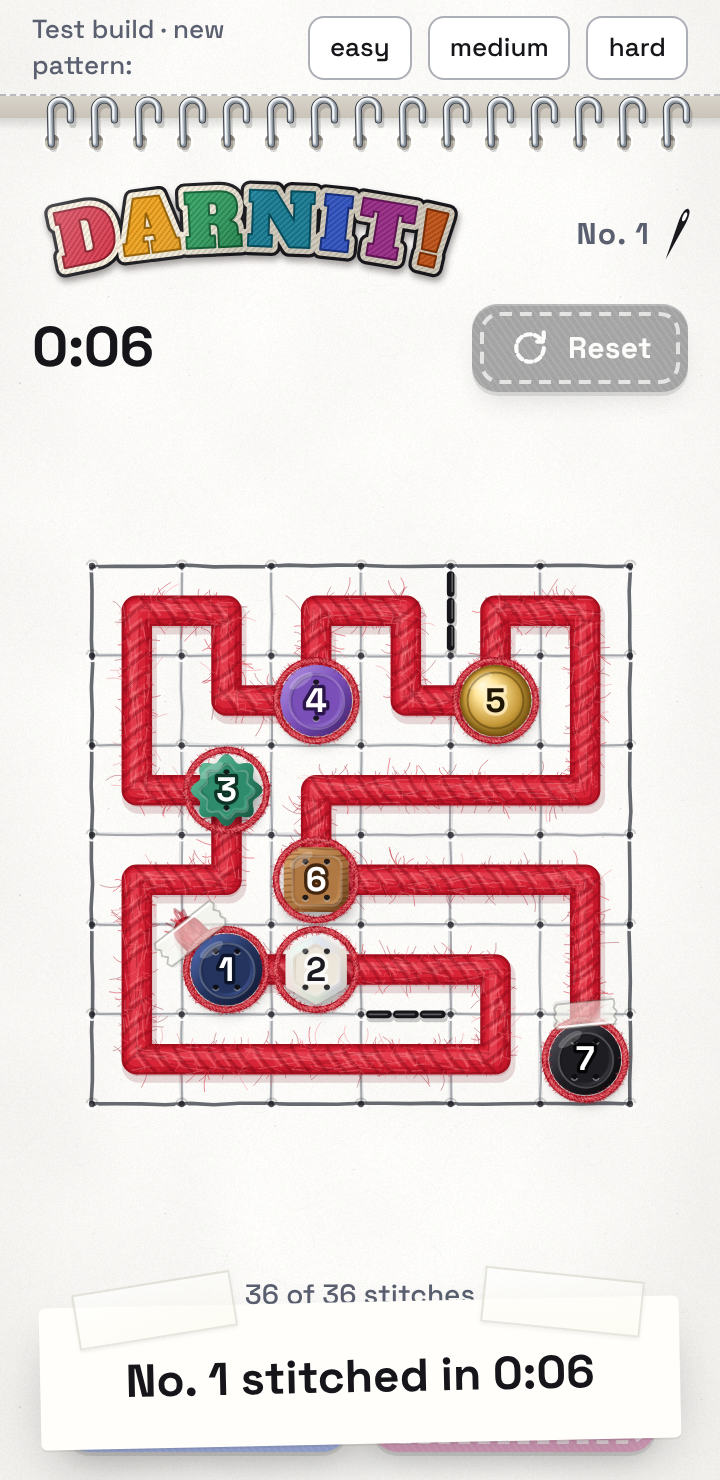
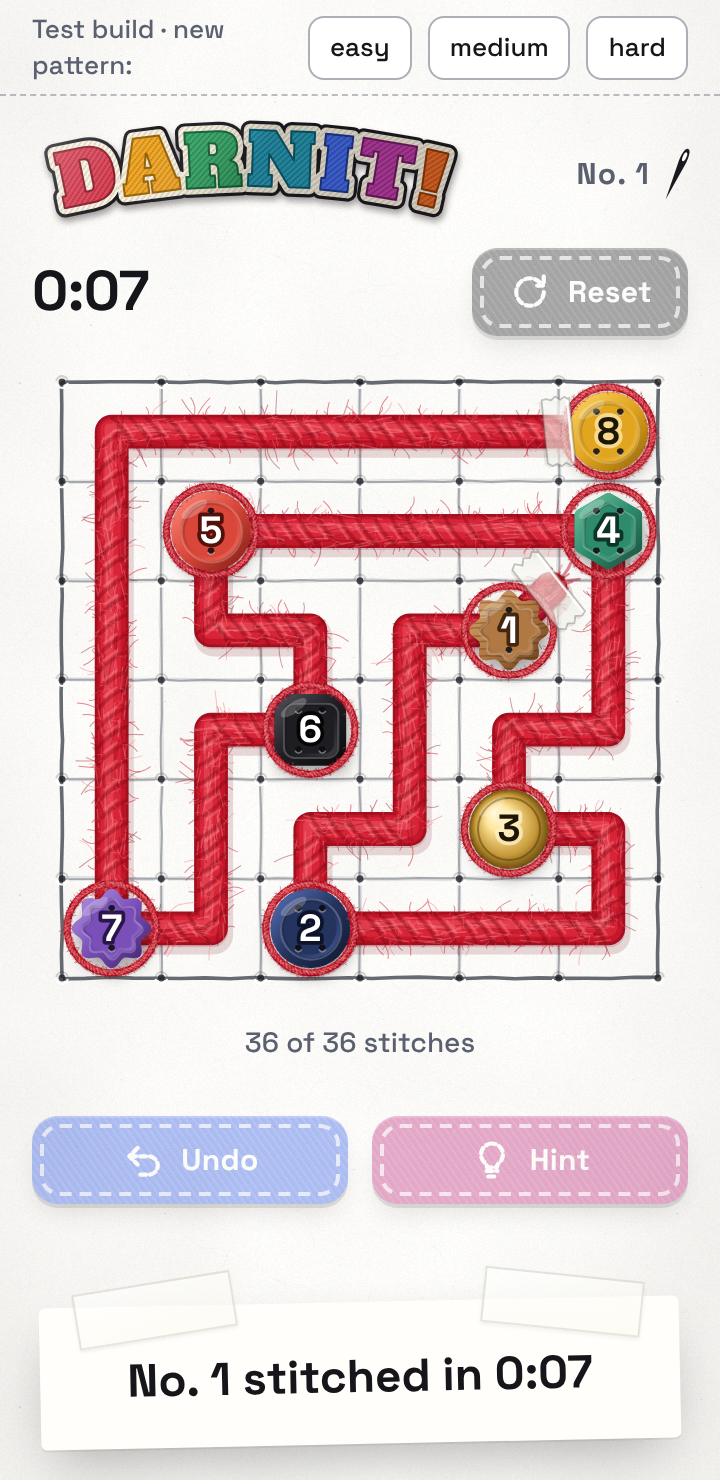
Full-width board, no binding, play screen stacked from the top
Per David: the board is back to the full page width, the ring binding
is removed, and the play screen stacks from the top instead of
spreading the board into the middle of the screen.

Claude-Session: https://claude.ai/code/session_01LMNKs4K7r1ACiGB6mFaDTE

diff --git a/src/client/styles.css b/src/client/styles.css
@@ -172,7 +172,8 @@ body {
   margin: 0 auto;
   display: flex;
   flex-direction: column;
-  gap: 6px;
+  gap: 8px;
+  padding-top: 10px;
   padding-bottom: 14px;
   padding-left: max(16px, env(safe-area-inset-left, 0px));
   padding-right: max(16px, env(safe-area-inset-right, 0px));
@@ -181,13 +182,6 @@ body {
   user-select: none;
   -webkit-user-select: none;
   -webkit-touch-callout: none;
-}
-.spiral {
-  display: block;
-  flex: none;
-  width: calc(100% + max(16px, env(safe-area-inset-left, 0px)) + max(16px, env(safe-area-inset-right, 0px)));
-  height: 34px;
-  margin-left: calc(-1 * max(16px, env(safe-area-inset-left, 0px)));
 }
 .masthead {
   display: flex;
@@ -224,7 +218,9 @@ body {
   min-width: 4ch;
 }
 .stage {
-  flex: 1;
+  flex: 0 1 auto;
+  width: 100%;
+  aspect-ratio: 1 / 1;
   min-height: 0;
   display: grid;
   place-items: center;
@@ -244,9 +240,6 @@ body {
 .status.warn {
   color: #9a5a00;
   font-weight: 700;
-}
-.controls {
-  padding-inline: 5%;
 }
 .controls .patch {
   flex: 1;

diff --git a/src/client/game/Play.tsx b/src/client/game/Play.tsx
@@ -12,7 +12,6 @@ const NEEDLES_FOR = { easy: 1, medium: 2, hard: 3 };
 import { askHint, startRun, submitThread } from '../api.ts';
 import { Board } from './Board.tsx';
 import { Icon, Needles } from './Craft.tsx';
-import { Spiral } from './Spiral.tsx';
 import { Logo } from './Logo.tsx';
 
 type Result = { timeMs: number; hints: number; unpicks: number; counted: boolean; note: string };
@@ -164,7 +163,6 @@ export const Play = ({ today, skew }: Props) => {
 
   return (
     <main className="play">
-      <Spiral />
       <header className="masthead">
         <Logo height={58} />
         <div className="meta">

diff --git a/src/client/game/Board.tsx b/src/client/game/Board.tsx
@@ -98,8 +98,7 @@ export const Board = ({ pattern, board, thread, hintCell, hintUntil, solved, loc
 
     const resize = () => {
       const rect = box.getBoundingClientRect();
-      // A little smaller than the space allows, so the board sits on the page with air round it.
-      const edge = Math.floor(Math.min(rect.width * 0.9, rect.height * 0.96));
+      const edge = Math.floor(Math.min(rect.width, rect.height));
       if (edge <= 0) return;
       geo = layout(edge, pattern.size);
       canvas.style.width = `${edge}px`;

diff --git a/SPEC.md b/SPEC.md
@@ -197,7 +197,7 @@ A sketchbook page with real craft materials on it: red wool stretched across whi
 
 Materials:
 
-- **Paper:** white sketchbook paper with a fine grain, faint fibres and specks, and a steel ring binding along the top, coming out of punched holes. One look in every system theme: the game is always on white paper, with no dark mode.
+- **Paper:** white sketchbook paper with a fine grain, faint fibres and specks. One look in every system theme: the game is always on white paper, with no dark mode.
 - **Board:** a pencil grid drawn straight onto the paper, clearly visible, with a hole pricked through the paper at every grid corner, like paper embroidery.
 - **Thread:** red wool about a third of a cell wide: round shading, twisted plies, fine fibres and loose fuzz, and a soft shadow on the paper. Its cut end at button 1 is frayed and taped down with a strip of clear tape; the last end gets taped when the pattern is solved. While dragging, the wool lifts off the page and follows the finger, with a steel needle at its end.
 - **Buttons:** real buttons, mixed like a tin of odd ones: round, square, scalloped flower, hexagon and domed brass shank shapes, in navy, mustard, wood, mother-of-pearl, green, black, red and purple. Raised rim, dished centre, thread holes above and below the number so they never cover it. The same pattern always gets the same buttons. When the wool reaches one, a thin strand of wool rings it.
@@ -221,7 +221,7 @@ All text meets 4.5:1 contrast, and button numbers stay at least 16 px on an 8×8
 
 Type: Space Grotesk for everything, with tabular numbers; Alfa Slab One for the logo only. Both bundled with the app rather than loaded from Google.
 
-Scale: the board takes about 90% of the screen width with paper showing round it, so the page never feels pressed against the face.
+Scale: the board is as wide as the page. The play screen stacks from the top (logo, timer, board, status line, controls) and the board shrinks only on screens too short to fit it.
 
 Motion:
 
